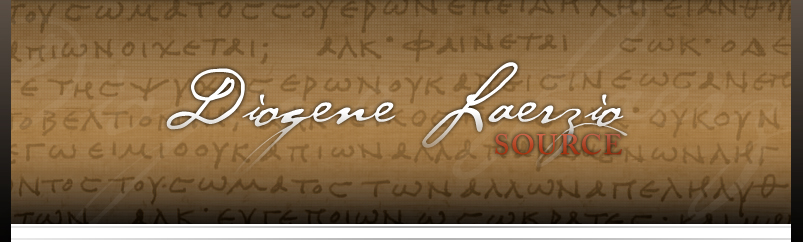
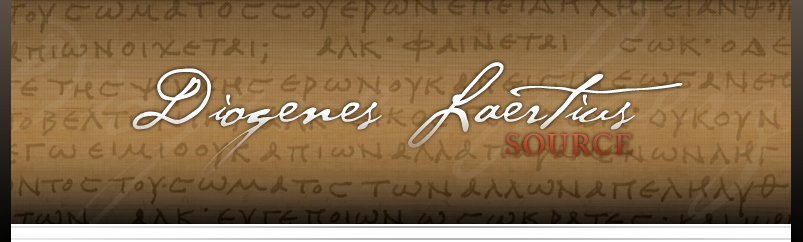
added auto-clean of cache for Critical and Facsimile Editions when a user logs out - replaced some images with the new ones (for ILIESI)

Changed region(s): [[0.4981, 0.2314, 0.8717, 0.6653], [0.1557, 0.2603, 0.4981, 0.6364]]

diff --git a/app/controllers/sessions_controller.rb b/app/controllers/sessions_controller.rb
@@ -1,8 +1,9 @@
 # This controller handles the login/logout function of the site.  
 class SessionsController < ApplicationController
-  
+
+  cache_sweeper :editions_sweeper, :only => [:destroy]
   layout 'admin'
-  
+
   # render new.rhtml
   def new
   end
@@ -22,6 +23,20 @@ class SessionsController < ApplicationController
     cookies.delete :auth_token
     reset_session
     flash[:notice] = "You have been logged out."
+    # When a translator logs out, we want to perform a cache cleaning, since we don't
+    # know what that translator changed and where.
+    # Still, we don't want to perform the cache cleaning any time a user invokes the
+    # /logout URL 
+    # To check if we are _actually_ performing a logout, we check if we're logged_in?
+    #
+    # TODO: why are we still logged in here? Find a better way to perform the check
+    if logged_in?
+      # TODO: since we are still logged in here (why?), we need to empty the @current_user val
+      # otherwise the perform_caching method (in the application controller) will return false
+      # (as it esplicitely shuts down the caching when a user is logged in)
+      @current_user = nil
+      EditionsSweeper.instance.clean_cache
+    end
     redirect_back_or_default('/')
   end
   

diff --git a/app/sweepers/editions_sweeper.rb b/app/sweepers/editions_sweeper.rb
@@ -1,0 +1,16 @@
+class EditionsSweeper < ActionController::Caching::Sweeper
+
+  # called from within the SessionsController, when the user logs out
+  def after_destroy
+    clean_cache
+  end
+
+  # sweeps the cache of all the CriticalEdition and FacsimileEdition pages
+  # this is invoked when a translator logs out, since we can't guess what's been
+  # changed, in the translation, and we need to recreate the cached version of
+  # everything.
+  def clean_cache
+    expire_fragment(%r{texts/*})
+    expire_fragment(%r{facsimiles/*})
+  end
+end

diff --git a/config/environments/development.rb b/config/environments/development.rb
@@ -11,7 +11,7 @@ config.whiny_nils = true
 # Show full error reports and disable caching
 config.action_controller.consider_all_requests_local = true
 config.action_view.debug_rjs                         = true
-config.action_controller.perform_caching             = false
+config.action_controller.perform_caching             = true
 config.action_view.cache_template_extensions         = false
 
 # Don't care if the mailer can't send
